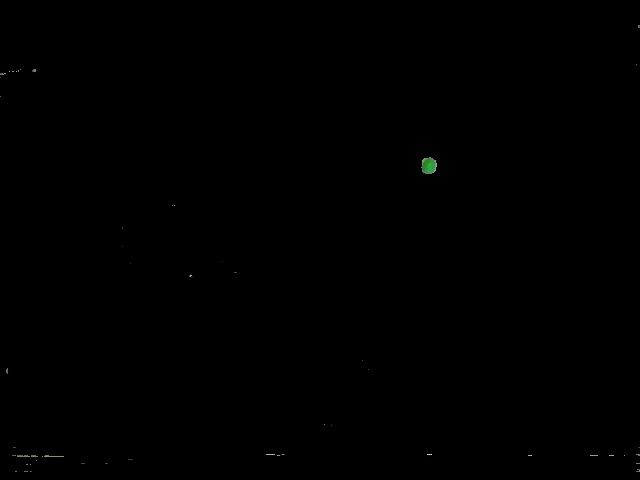
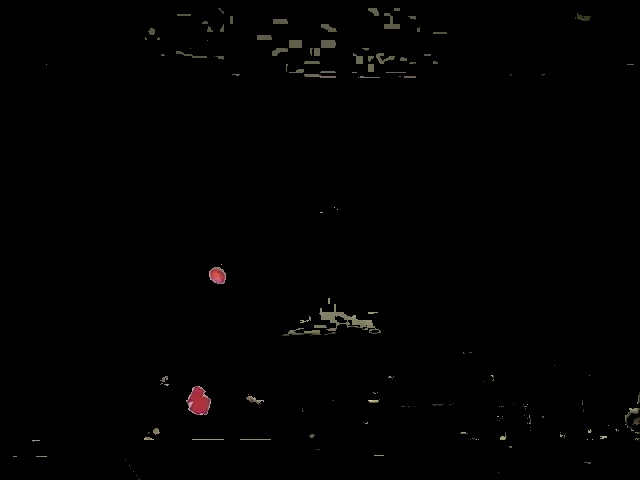
lol

diff --git a/src/candyPicker/ImageProcessing_node/processRawImg.py b/src/candyPicker/ImageProcessing_node/processRawImg.py
@@ -9,11 +9,8 @@ upper_blue = np.array([130,255,255])
 lower_green = np.array([40,50,50])
 upper_green = np.array([75,255,255])
 
-lower_brown1 = np.array([0,50,70])
-upper_brown1 = np.array([30,255,128])
-
-lower_brown1 = np.array([160,50,70])
-upper_brown1 = np.array([179,255,128])
+lower_yellow = np.array([15,100,100])
+upper_yellow = np.array([35,255,255])
 
 lower_red1 = np.array([0,50,50])
 upper_red1 = np.array([30,255,255])
@@ -50,6 +47,7 @@ class processRawImg():
         colorRed = False 
         colorBrown = False 
         calibrateForBlue = False
+
         if (color == "Blue"):
             upper = upper_blue
             lower = lower_blue
@@ -59,10 +57,14 @@ class processRawImg():
             upper = upper_green
             lower = lower_green
             
-        elif (color == "Brown"):
-            colorBrown = True
+        elif (color == "Yellow"):
+            upper = upper_yellow
+            lower = lower_yellow
+            
             
         elif (color == "Red"):
+            upper = upper_red1
+            lower = lower_red1
             colorRed = True
             
         
@@ -122,11 +124,7 @@ class processRawImg():
         hsv = cv2.cvtColor(image, cv2.COLOR_BGR2HSV)
         if (red == True):
             mask = cv2.inRange(hsv, lower_red1, upper_red1)
-            mask += cv2.inRange(hsv, lower_red2, upper_red2)
-            
-        if (red == True):
-            mask = cv2.inRange(hsv, lower_brown1, upper_brown1)
-            mask += cv2.inRange(hsv, lower_brown2, upper_brown2)   
+            mask += cv2.inRange(hsv, lower_red2, upper_red2)  
         
             
         else:

diff --git a/src/candyPicker/ImageProcessing_node/DetectMM.py b/src/candyPicker/ImageProcessing_node/DetectMM.py
@@ -129,7 +129,7 @@ class DetectMM():
             return x,y
             
         elif (color == "Green"):
-            x = 40
+            x = 100
             y = 380
             return x,y
             
@@ -138,9 +138,9 @@ class DetectMM():
             y = 380
             return x,y
             
-        elif (color == "Brown"):
-            x = -84.827
-            y = 212.345
+        elif (color == "Yellow"):
+            x = 100
+            y = 180
             return x,y
             
         else:

diff --git a/src/candyPicker/UI_node/UI.py b/src/candyPicker/UI_node/UI.py
@@ -60,6 +60,9 @@ class UI():
             if (input == '5'):
                 self.printUI()
                 
+            if (input == '8'):
+                self.UINode.sort("Yellow")
+                
             if (input == '9'):
                 print ("Calibrating camera...  \r")
                 self.UINode.fullyErrect()
